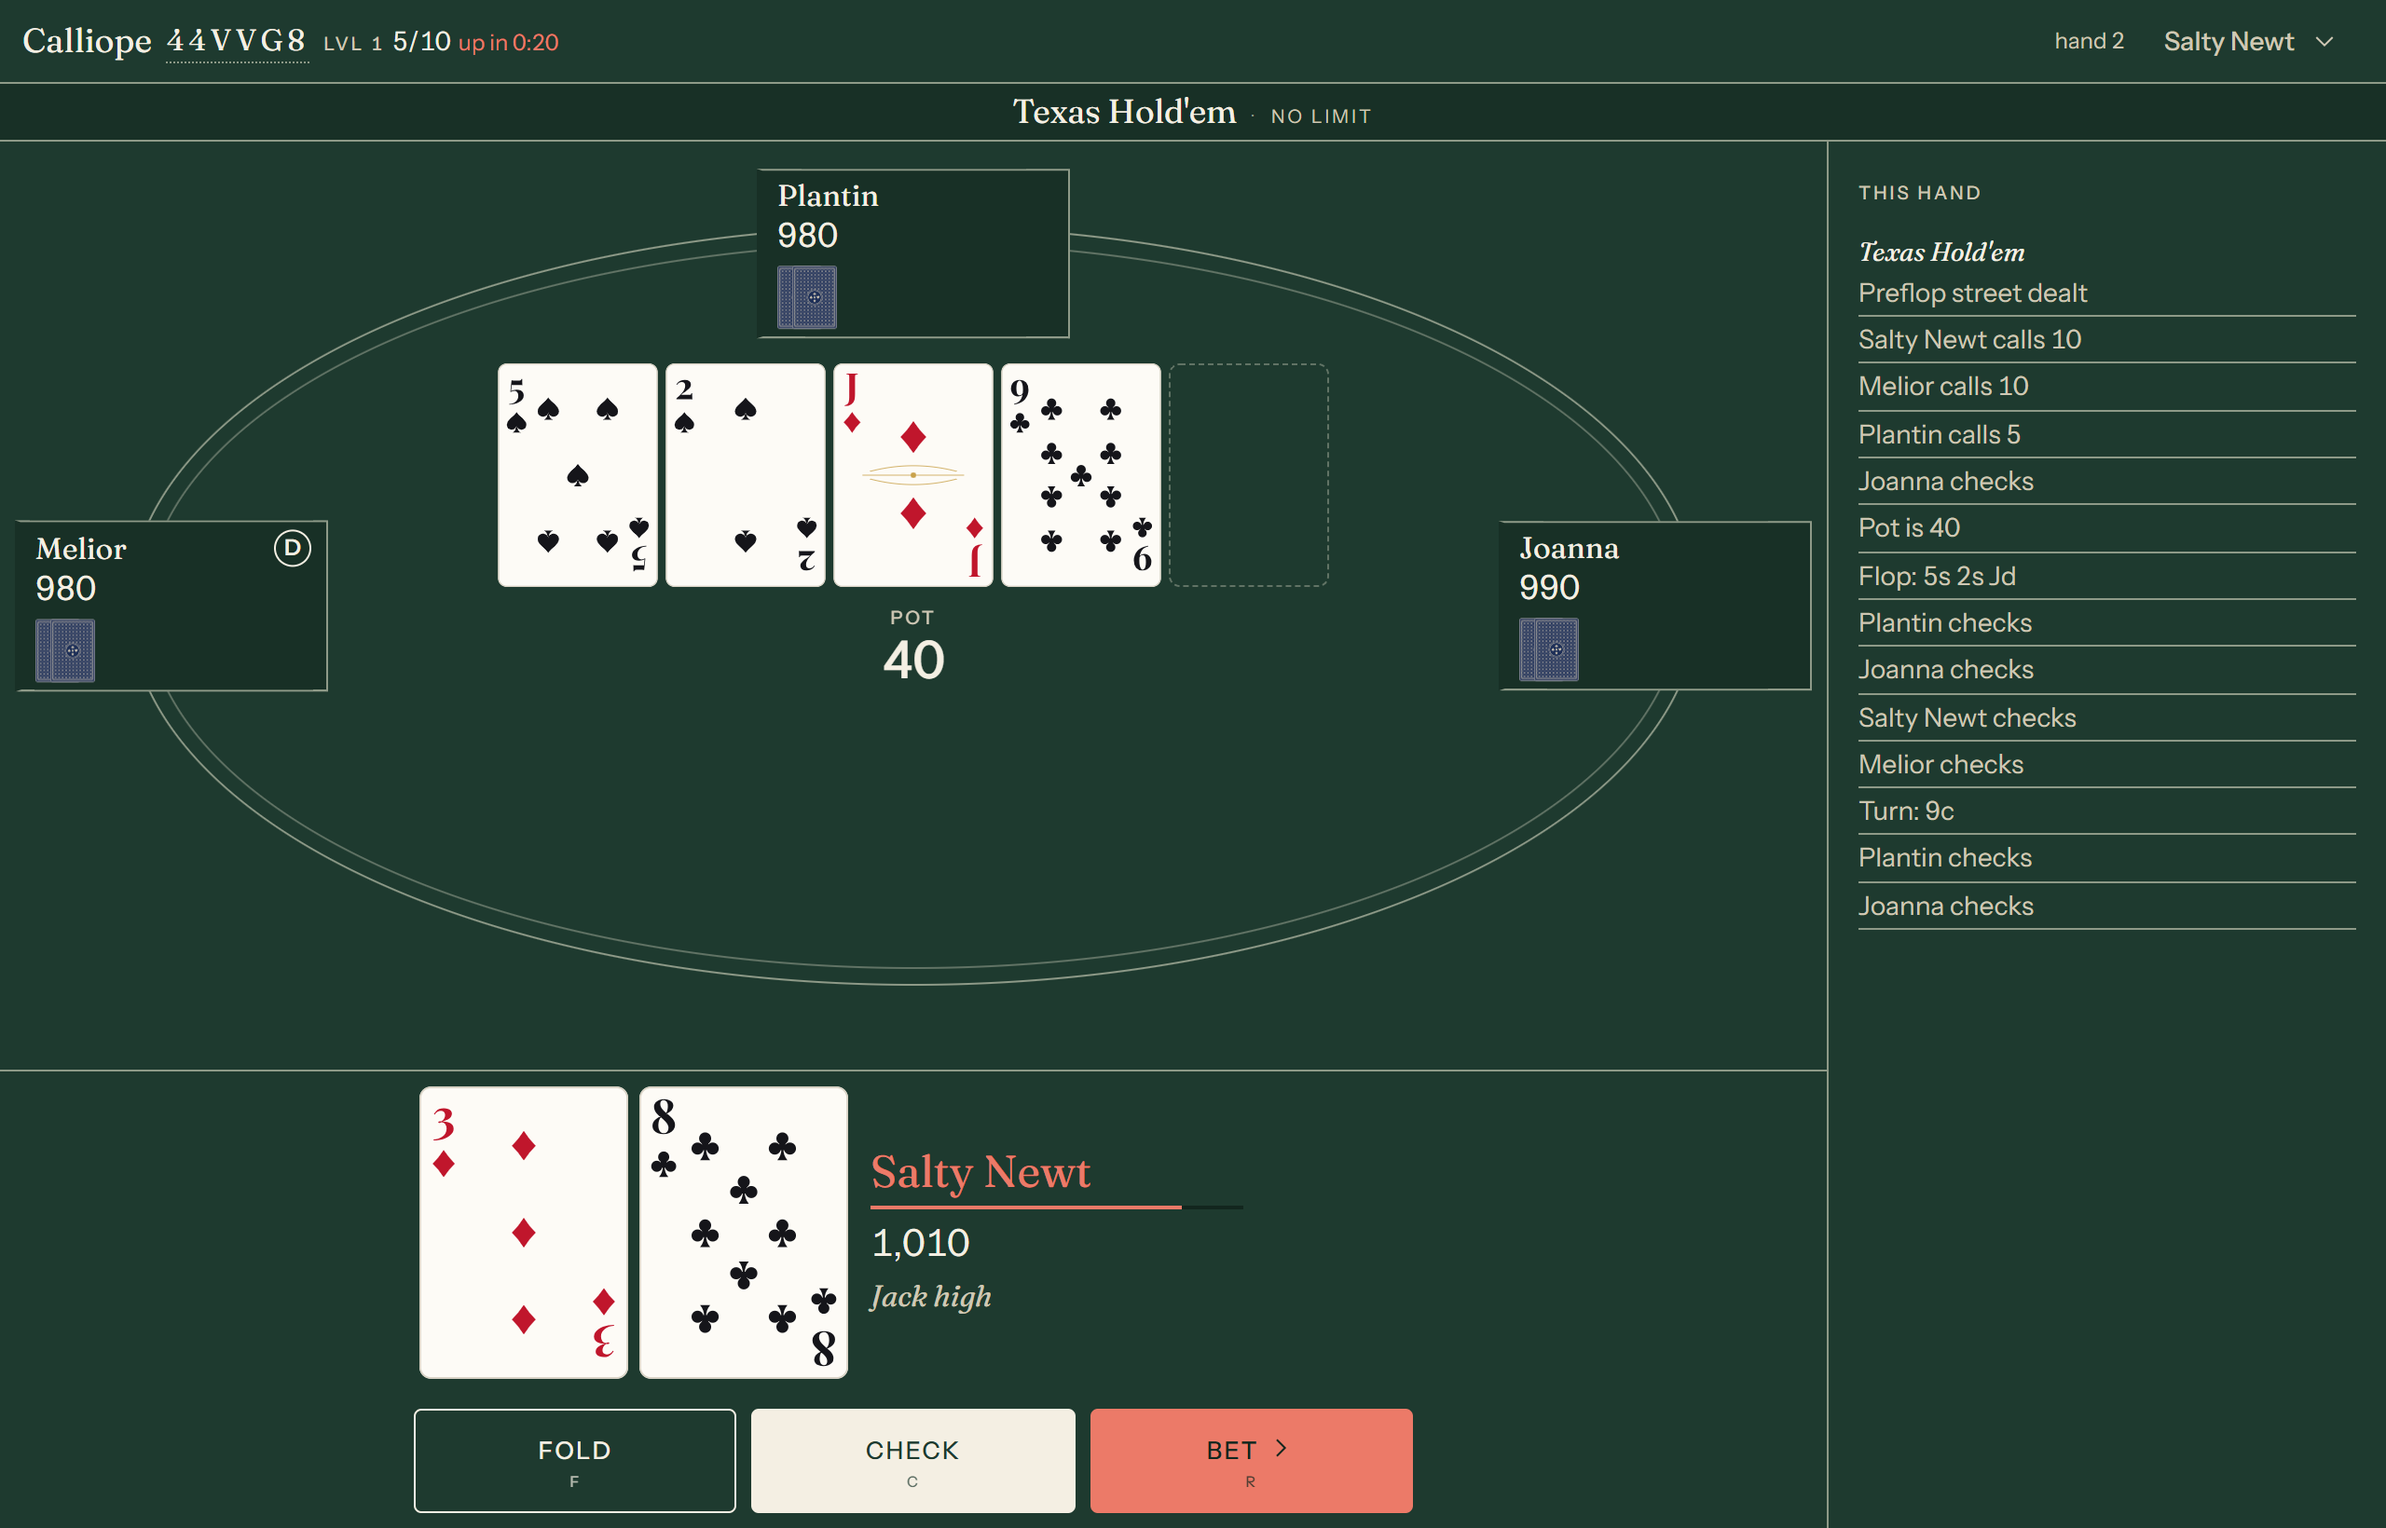
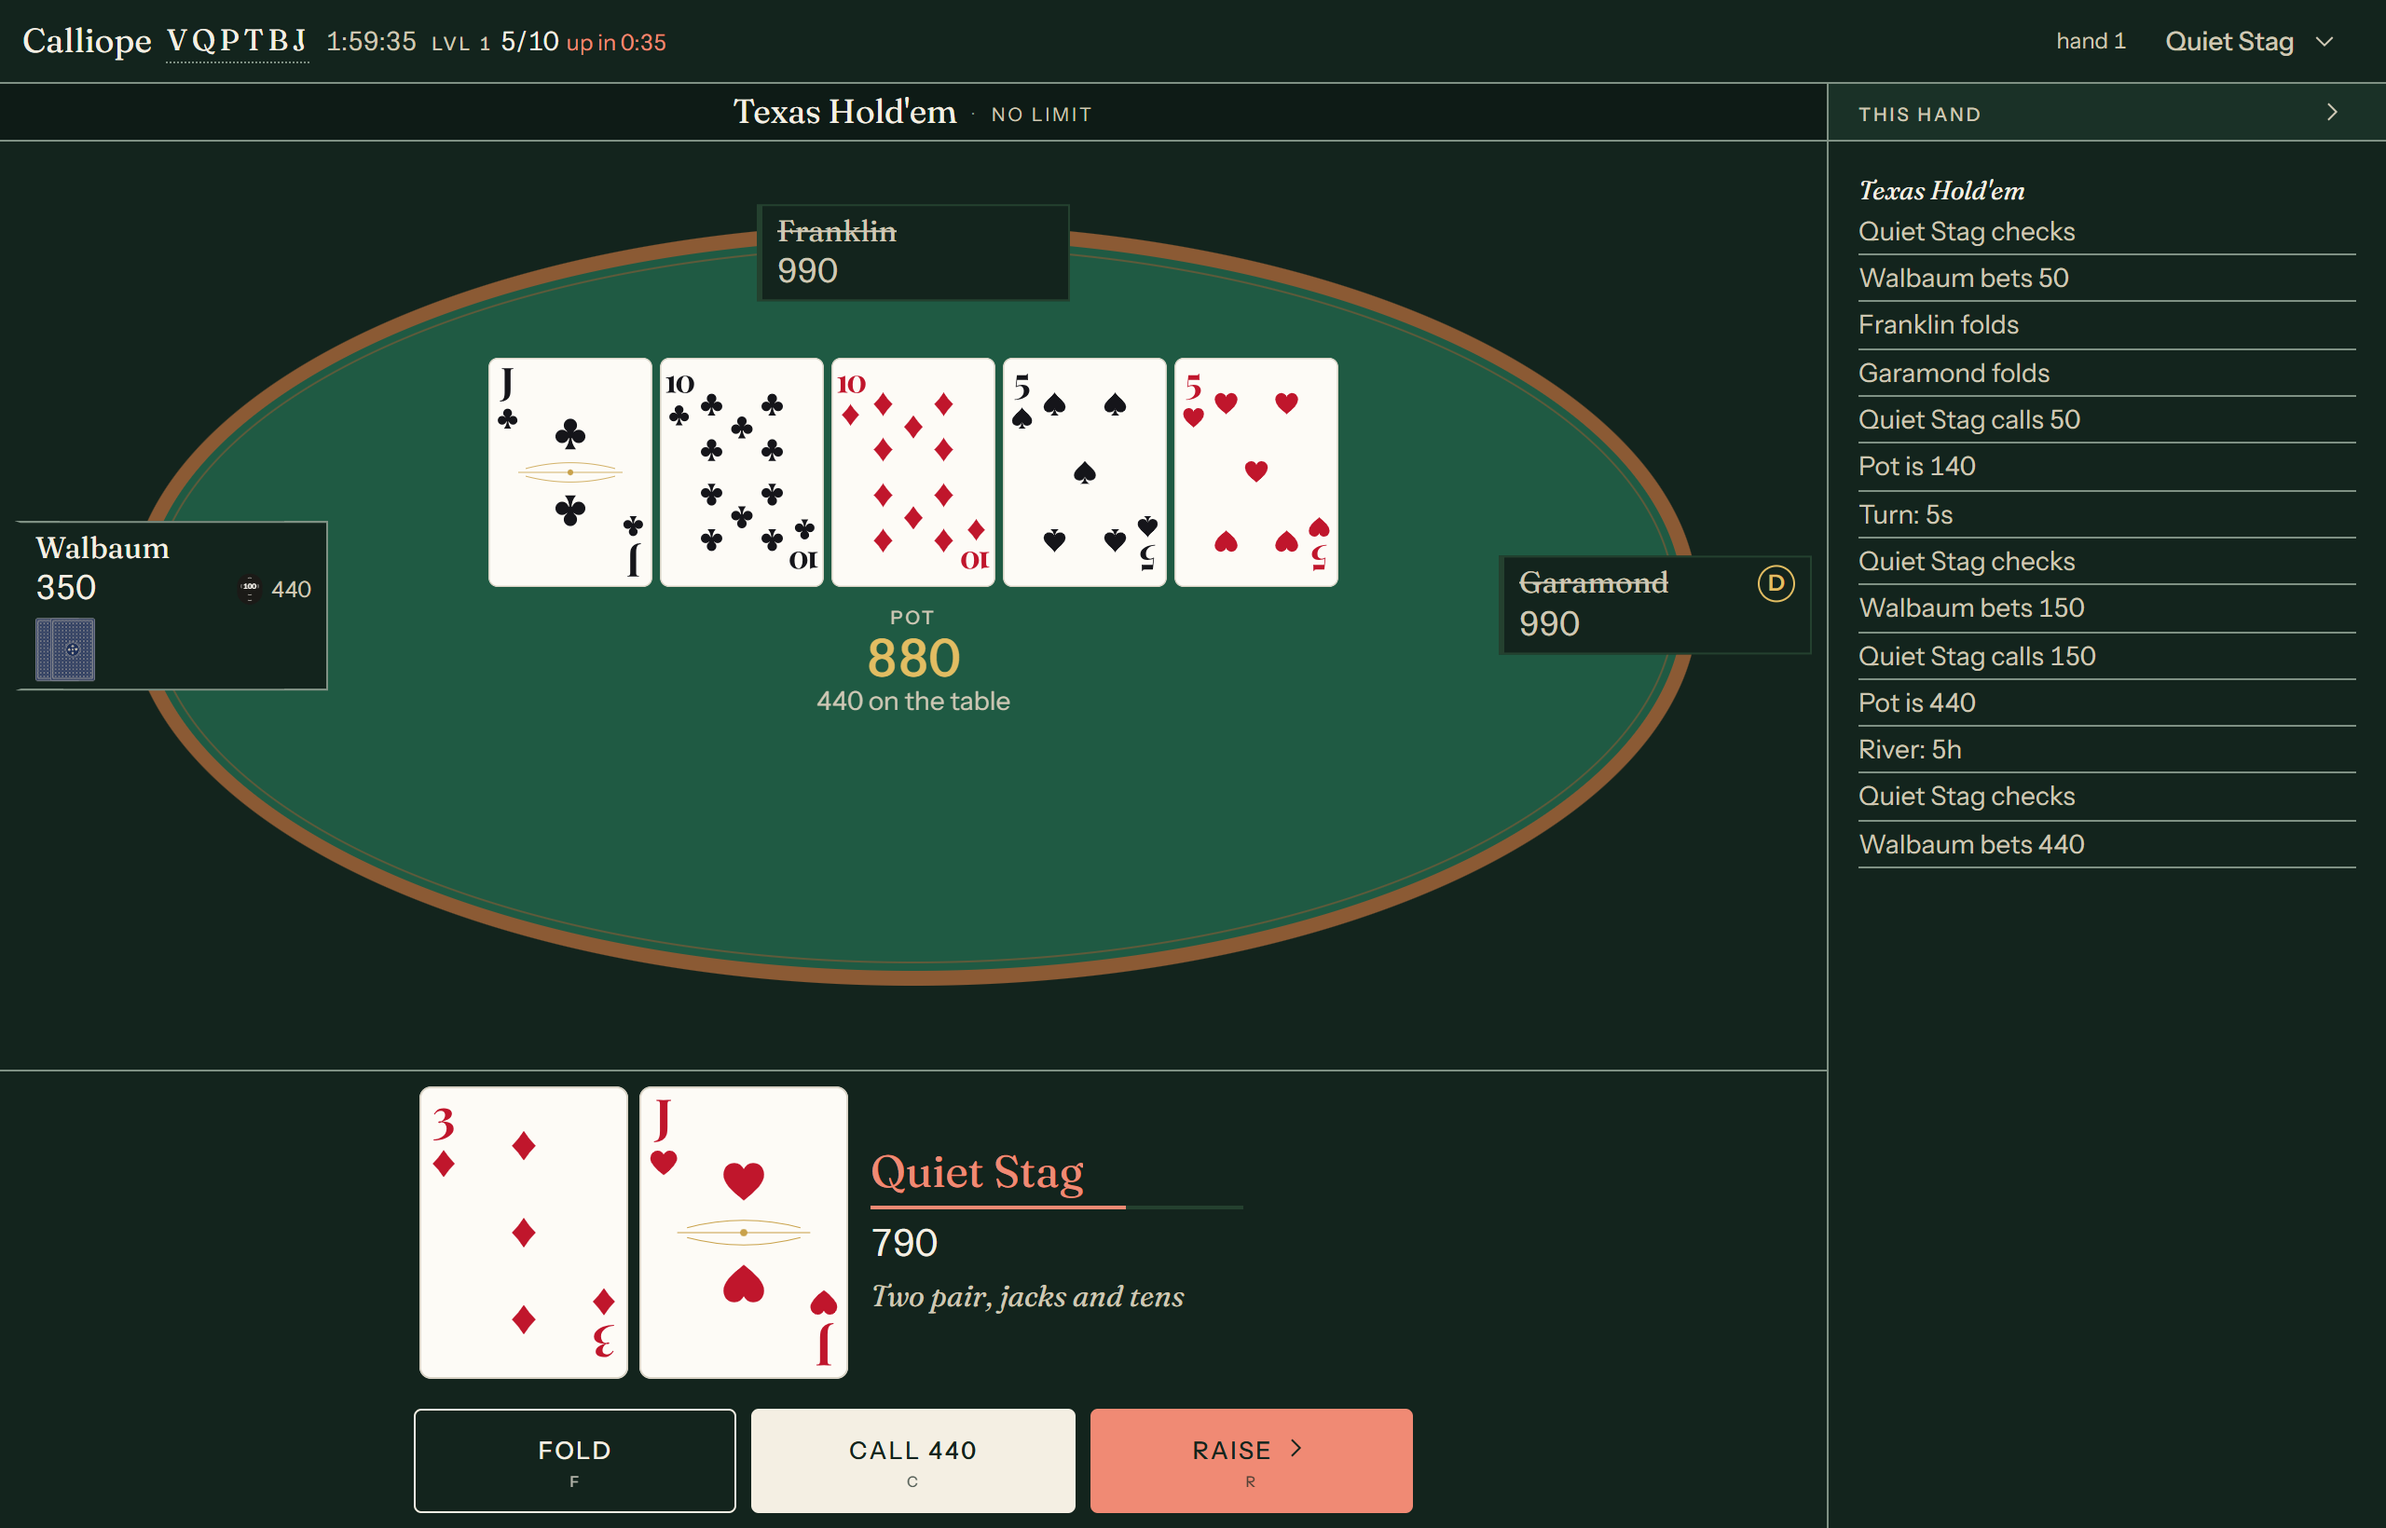
Show each theme's rim in the picker, and refresh the screenshots
The theme swatches now draw the table's rim around the felt and set the pot
in the theme's gold, so the seven looks can be told apart at a glance. The
README's table and theme screenshots are retaken with the new palettes, and
it counts seven themes.

diff --git a/packages/web/src/styles/base.css b/packages/web/src/styles/base.css
@@ -1345,12 +1345,13 @@ html[data-input='pad'] [data-pad-editing]:focus {
   align-items: center;
   gap: var(--s-1);
   background: var(--felt);
+  border: 3px solid var(--rim);
   padding: var(--s-1);
 }
 
 .theme-swatch .pot-mark {
   font-size: var(--t-micro);
-  color: var(--ink);
+  color: var(--gold);
   font-variant-numeric: tabular-nums;
   margin-left: auto;
 }

diff --git a/README.md b/README.md
@@ -1,6 +1,6 @@
 # Calliope Poker
 
-Self-hosted poker for a table of friends. Room codes and join links, dealer's choice between Hold'em, Omaha, Pineapple, Atomic Pineapple, Cincinnati, seven-card stud, five-card stud, five-card draw, three-card poker, three-card draw and blind man's bluff, wild cards (jokers, deuces, one-eyed jacks or any rank), buy-ins and re-buys, blinds and antes that climb on a schedule, rule-based bots, five themes, keyboard and game-controller play, and a printed night report at the end.
+Self-hosted poker for a table of friends. Room codes and join links, dealer's choice between Hold'em, Omaha, Pineapple, Atomic Pineapple, Cincinnati, seven-card stud, five-card stud, five-card draw, three-card poker, three-card draw and blind man's bluff, wild cards (jokers, deuces, one-eyed jacks or any rank), buy-ins and re-buys, blinds and antes that climb on a schedule, rule-based bots, seven themes, keyboard and game-controller play, and a printed night report at the end.
 
 No accounts. Everyone gets a name for the evening and a five-word ticket that brings their record back another night, which they can copy or save to their phone as an image.
 
@@ -26,11 +26,11 @@ hand.
 
 <table>
 <tr>
-<td width="50%"><img src="docs/screenshots/themes.png" alt="Five themes, each swatch drawn in its own palette" width="100%"></td>
+<td width="50%"><img src="docs/screenshots/themes.png" alt="Seven themes, each swatch drawn in its own palette" width="100%"></td>
 <td width="50%"><img src="docs/screenshots/rising-stakes.png" alt="The generated blind schedule, previewed in the lobby" width="100%"></td>
 </tr>
 <tr>
-<td align="center"><em>Five themes, each swatch drawn in its own colours</em></td>
+<td align="center"><em>Seven themes, each swatch drawn in its own colours</em></td>
 <td align="center"><em>Blinds and antes climb on a schedule you can see</em></td>
 </tr>
 </table>
@@ -242,7 +242,7 @@ packages/engine   pure, deterministic poker engine: cards, evaluator, betting, p
 packages/shared   zod schemas for settings and the websocket protocol; view types
 packages/bots     rule-based bots (tight, loose, aggressive, calling station)
 packages/server   Fastify + websockets, identity, rooms, Redis snapshots, Postgres history
-packages/web      Vite + React client, hand-drawn SVG cards and chips, five themes
+packages/web      Vite + React client, hand-drawn SVG cards and chips, seven themes
 docs/design.md    the visual system the client is built against
 docs/variants.md  how to add a poker variant
 docs/protocol.md  HTTP and websocket reference
